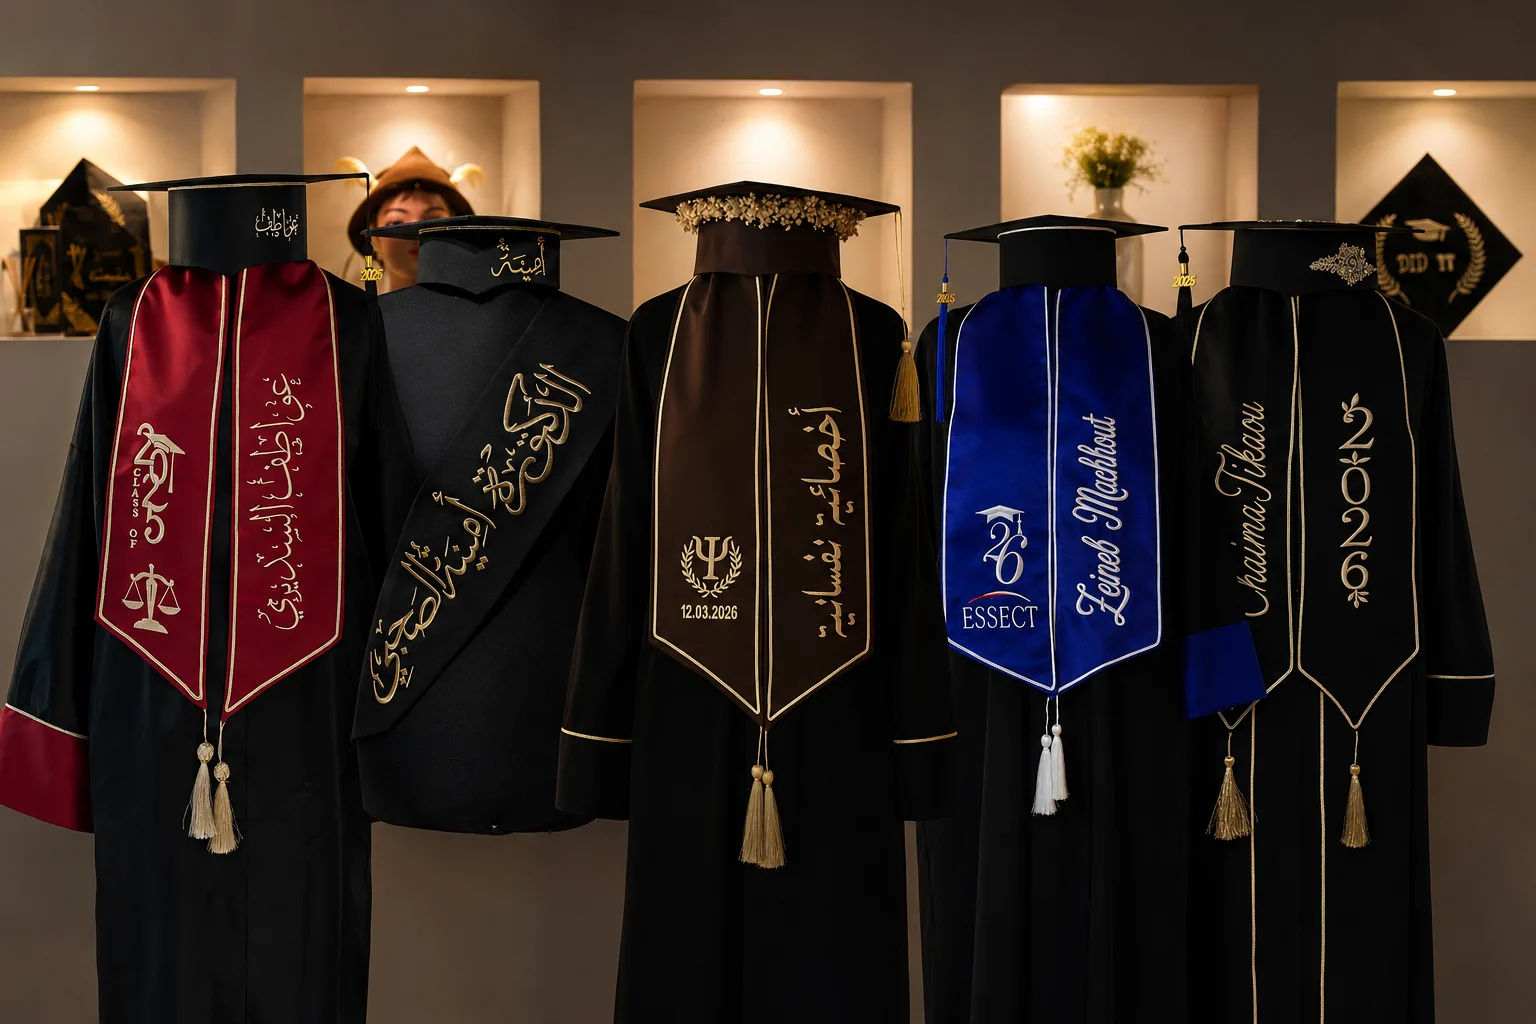
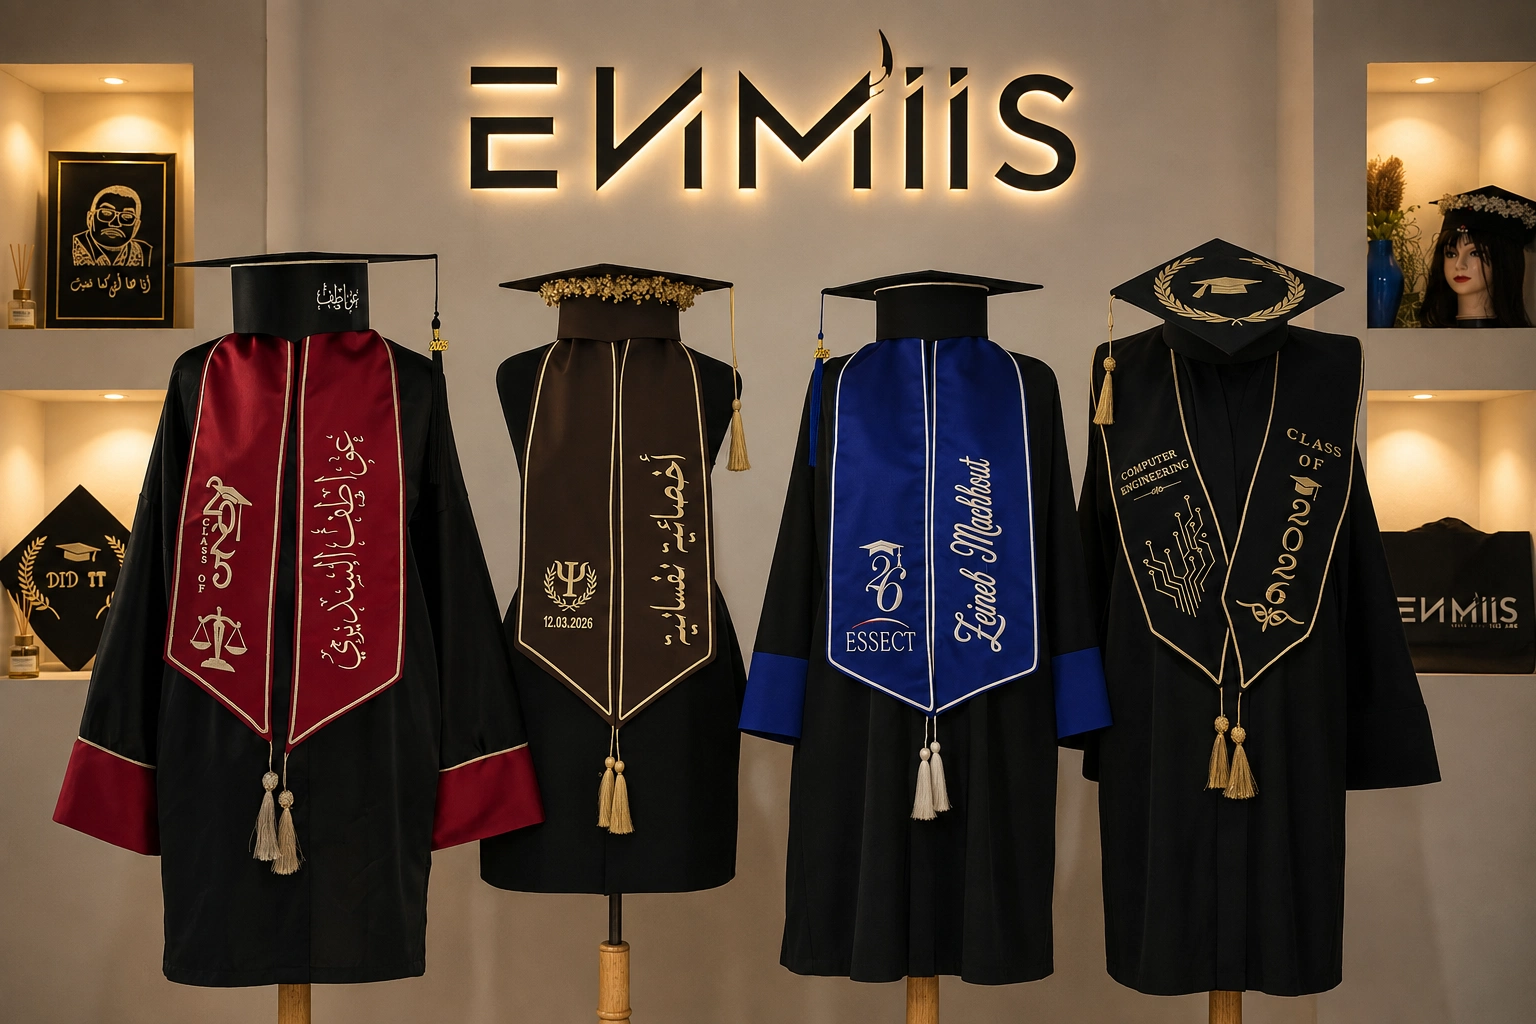
Sert les deux images du hero en WebP
Les PNG televerses pesaient 2099 et 2250 Ko, soit 4,3 Mo a charger a
l'ouverture de l'accueil. Les memes images en WebP qualite 96 font 319
et 434 Ko : 83 % de moins.

La conversion a ete mesuree contre l'original plutot que supposee :
SSIM 0,993 et 0,995, PSNR 49,8 dB sur les deux. A ce niveau l'ecart
n'est pas visible a l'oeil.

Les PNG restent dans le depot comme sources ; la page ne les charge
plus.

diff --git a/index.html b/index.html
@@ -173,7 +173,7 @@
 
         <article class="hero__slide is-active" aria-hidden="false">
           <div class="hero__media">
-            <img src="img/soutn/soutenance.png" alt="Cinq toges ENMIIS et leurs étoles brodées sur mesure" fetchpriority="high" decoding="async">
+            <img src="img/soutn/soutenance.webp" alt="Cinq toges ENMIIS et leurs étoles brodées sur mesure" fetchpriority="high" decoding="async">
           </div>
           <div class="hero__content container">
             <p class="hero__label">Soutenance</p>
@@ -184,7 +184,7 @@
 
         <article class="hero__slide" aria-hidden="true">
           <div class="hero__media">
-            <img src="img/collection/collections.png" alt="Campagne ENMIIS — quatre mannequins en tenues de la collection, autour d'un sac ENMIIS" loading="lazy" decoding="async">
+            <img src="img/collection/collections.webp" alt="Campagne ENMIIS — quatre mannequins en tenues de la collection, autour d'un sac ENMIIS" loading="lazy" decoding="async">
           </div>
           <div class="hero__content container">
             <p class="hero__label">Bientôt</p>
